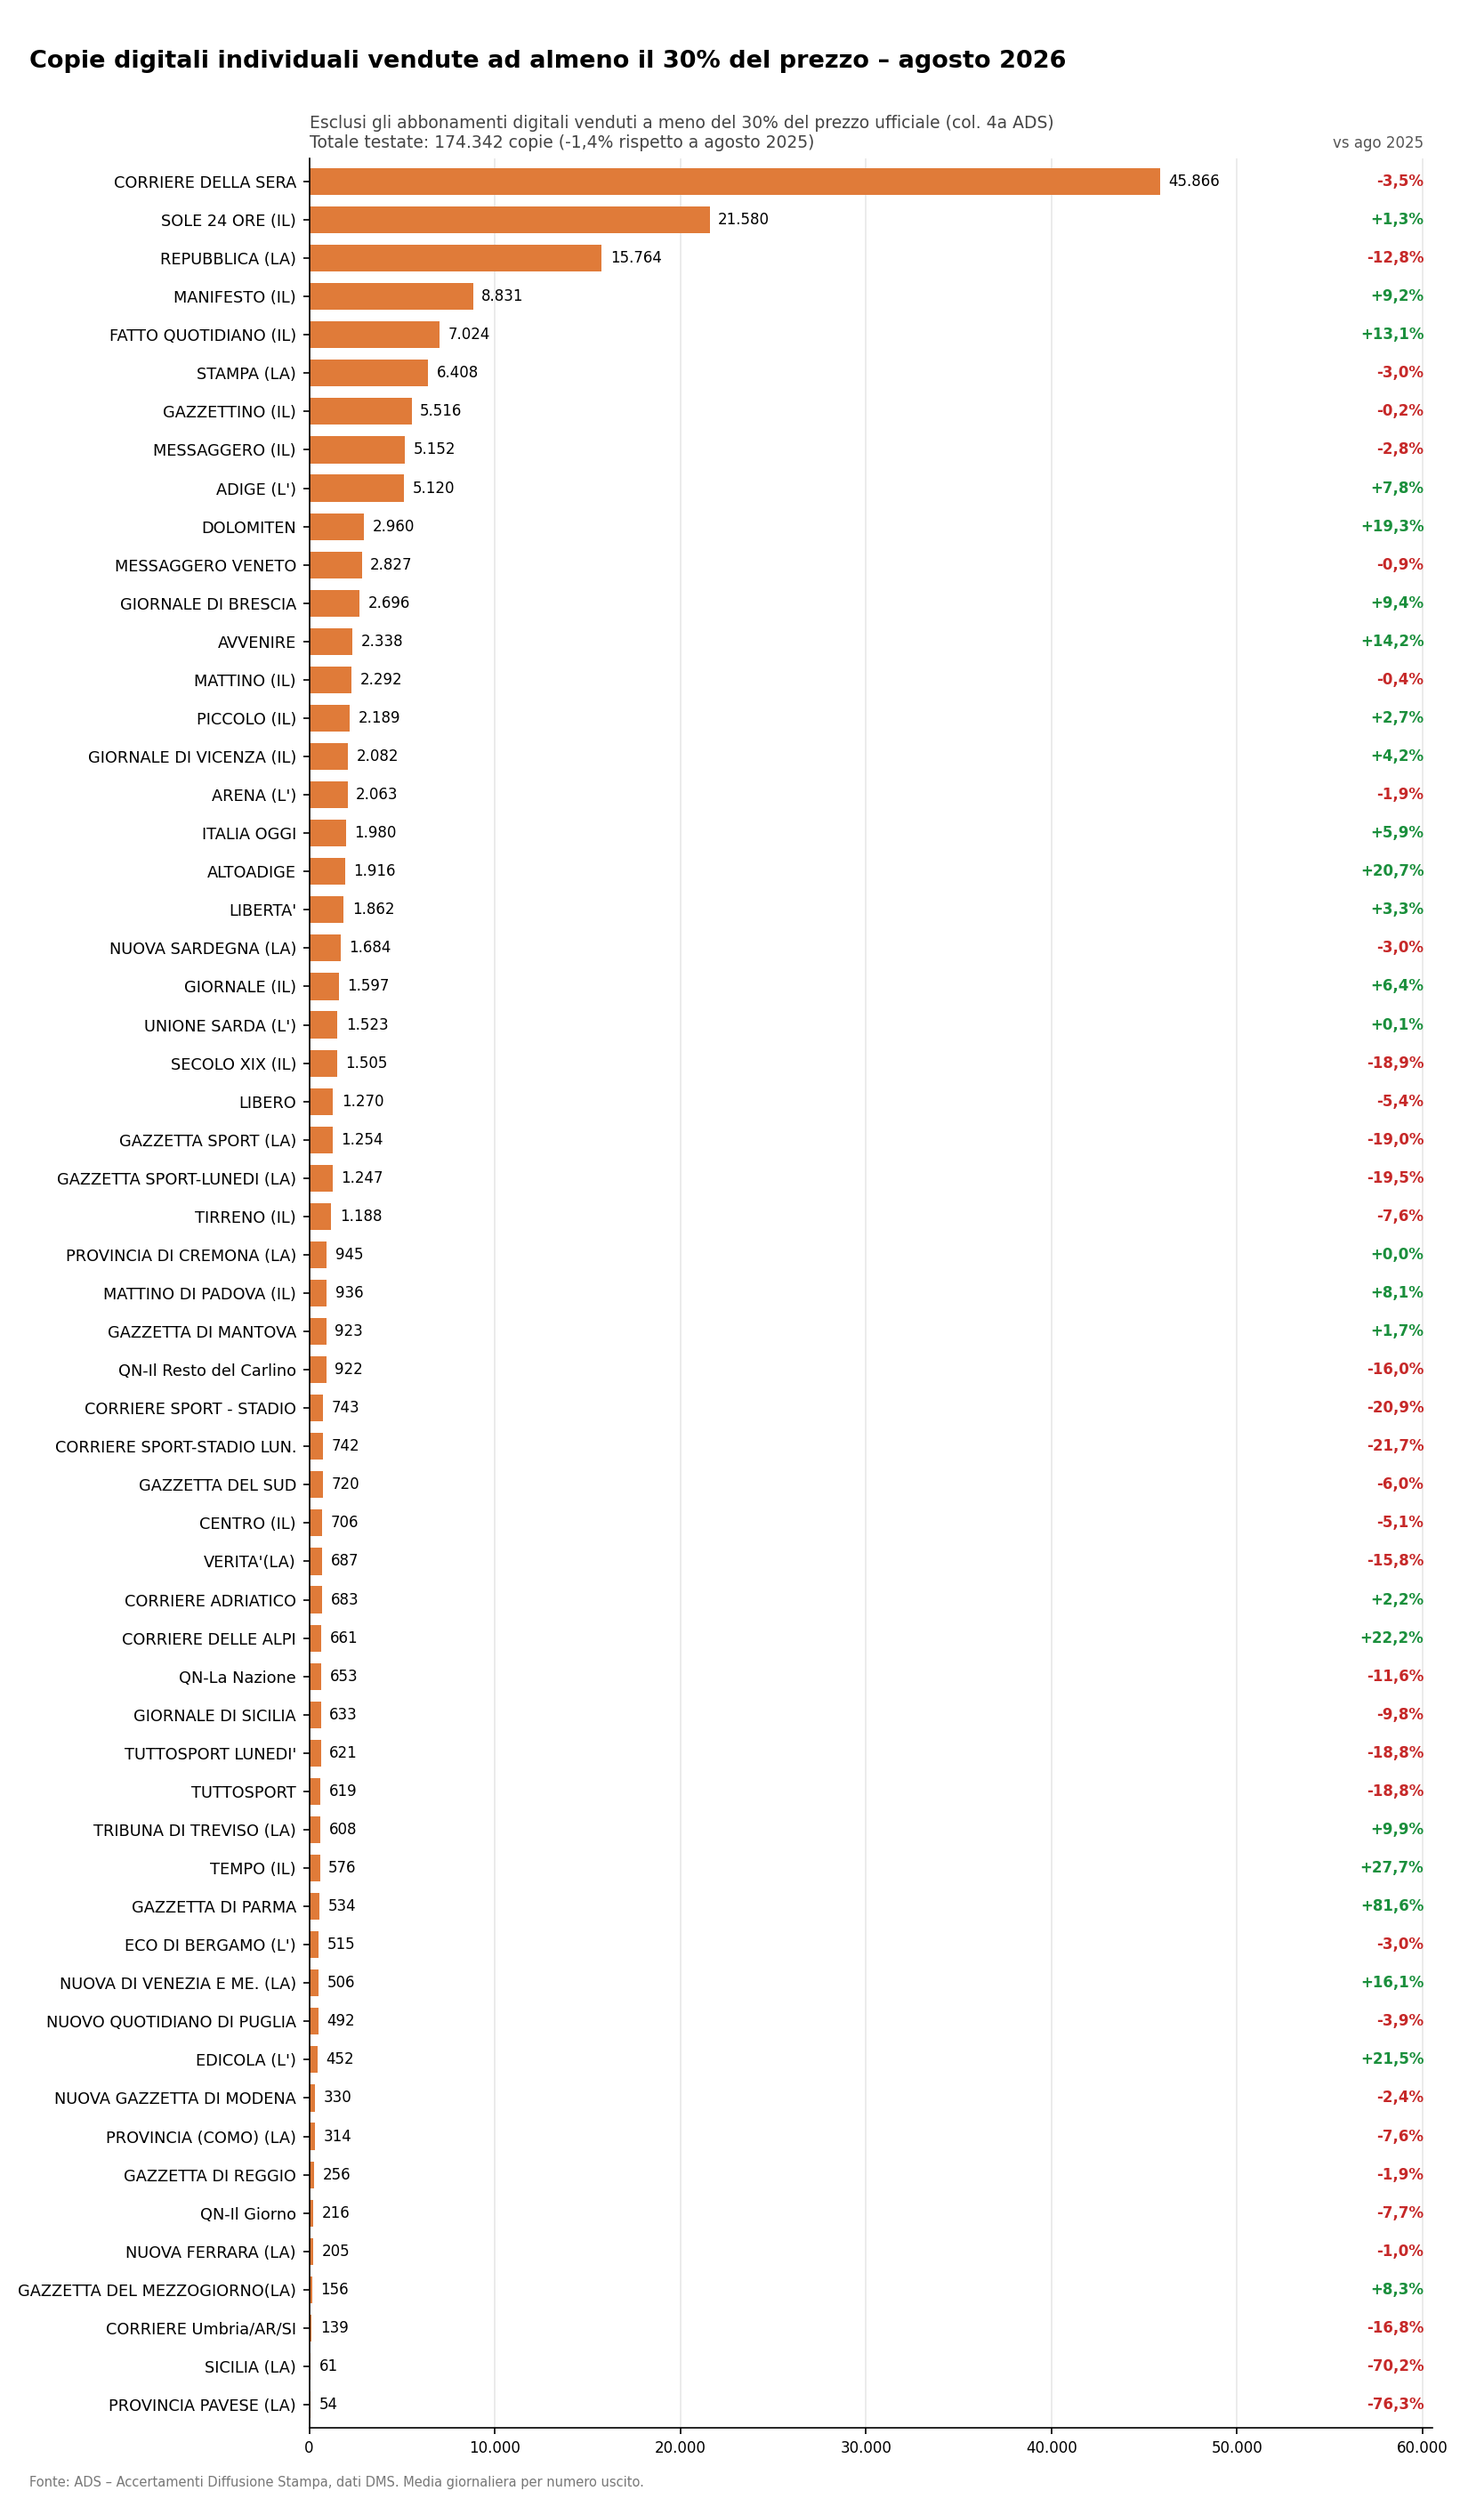
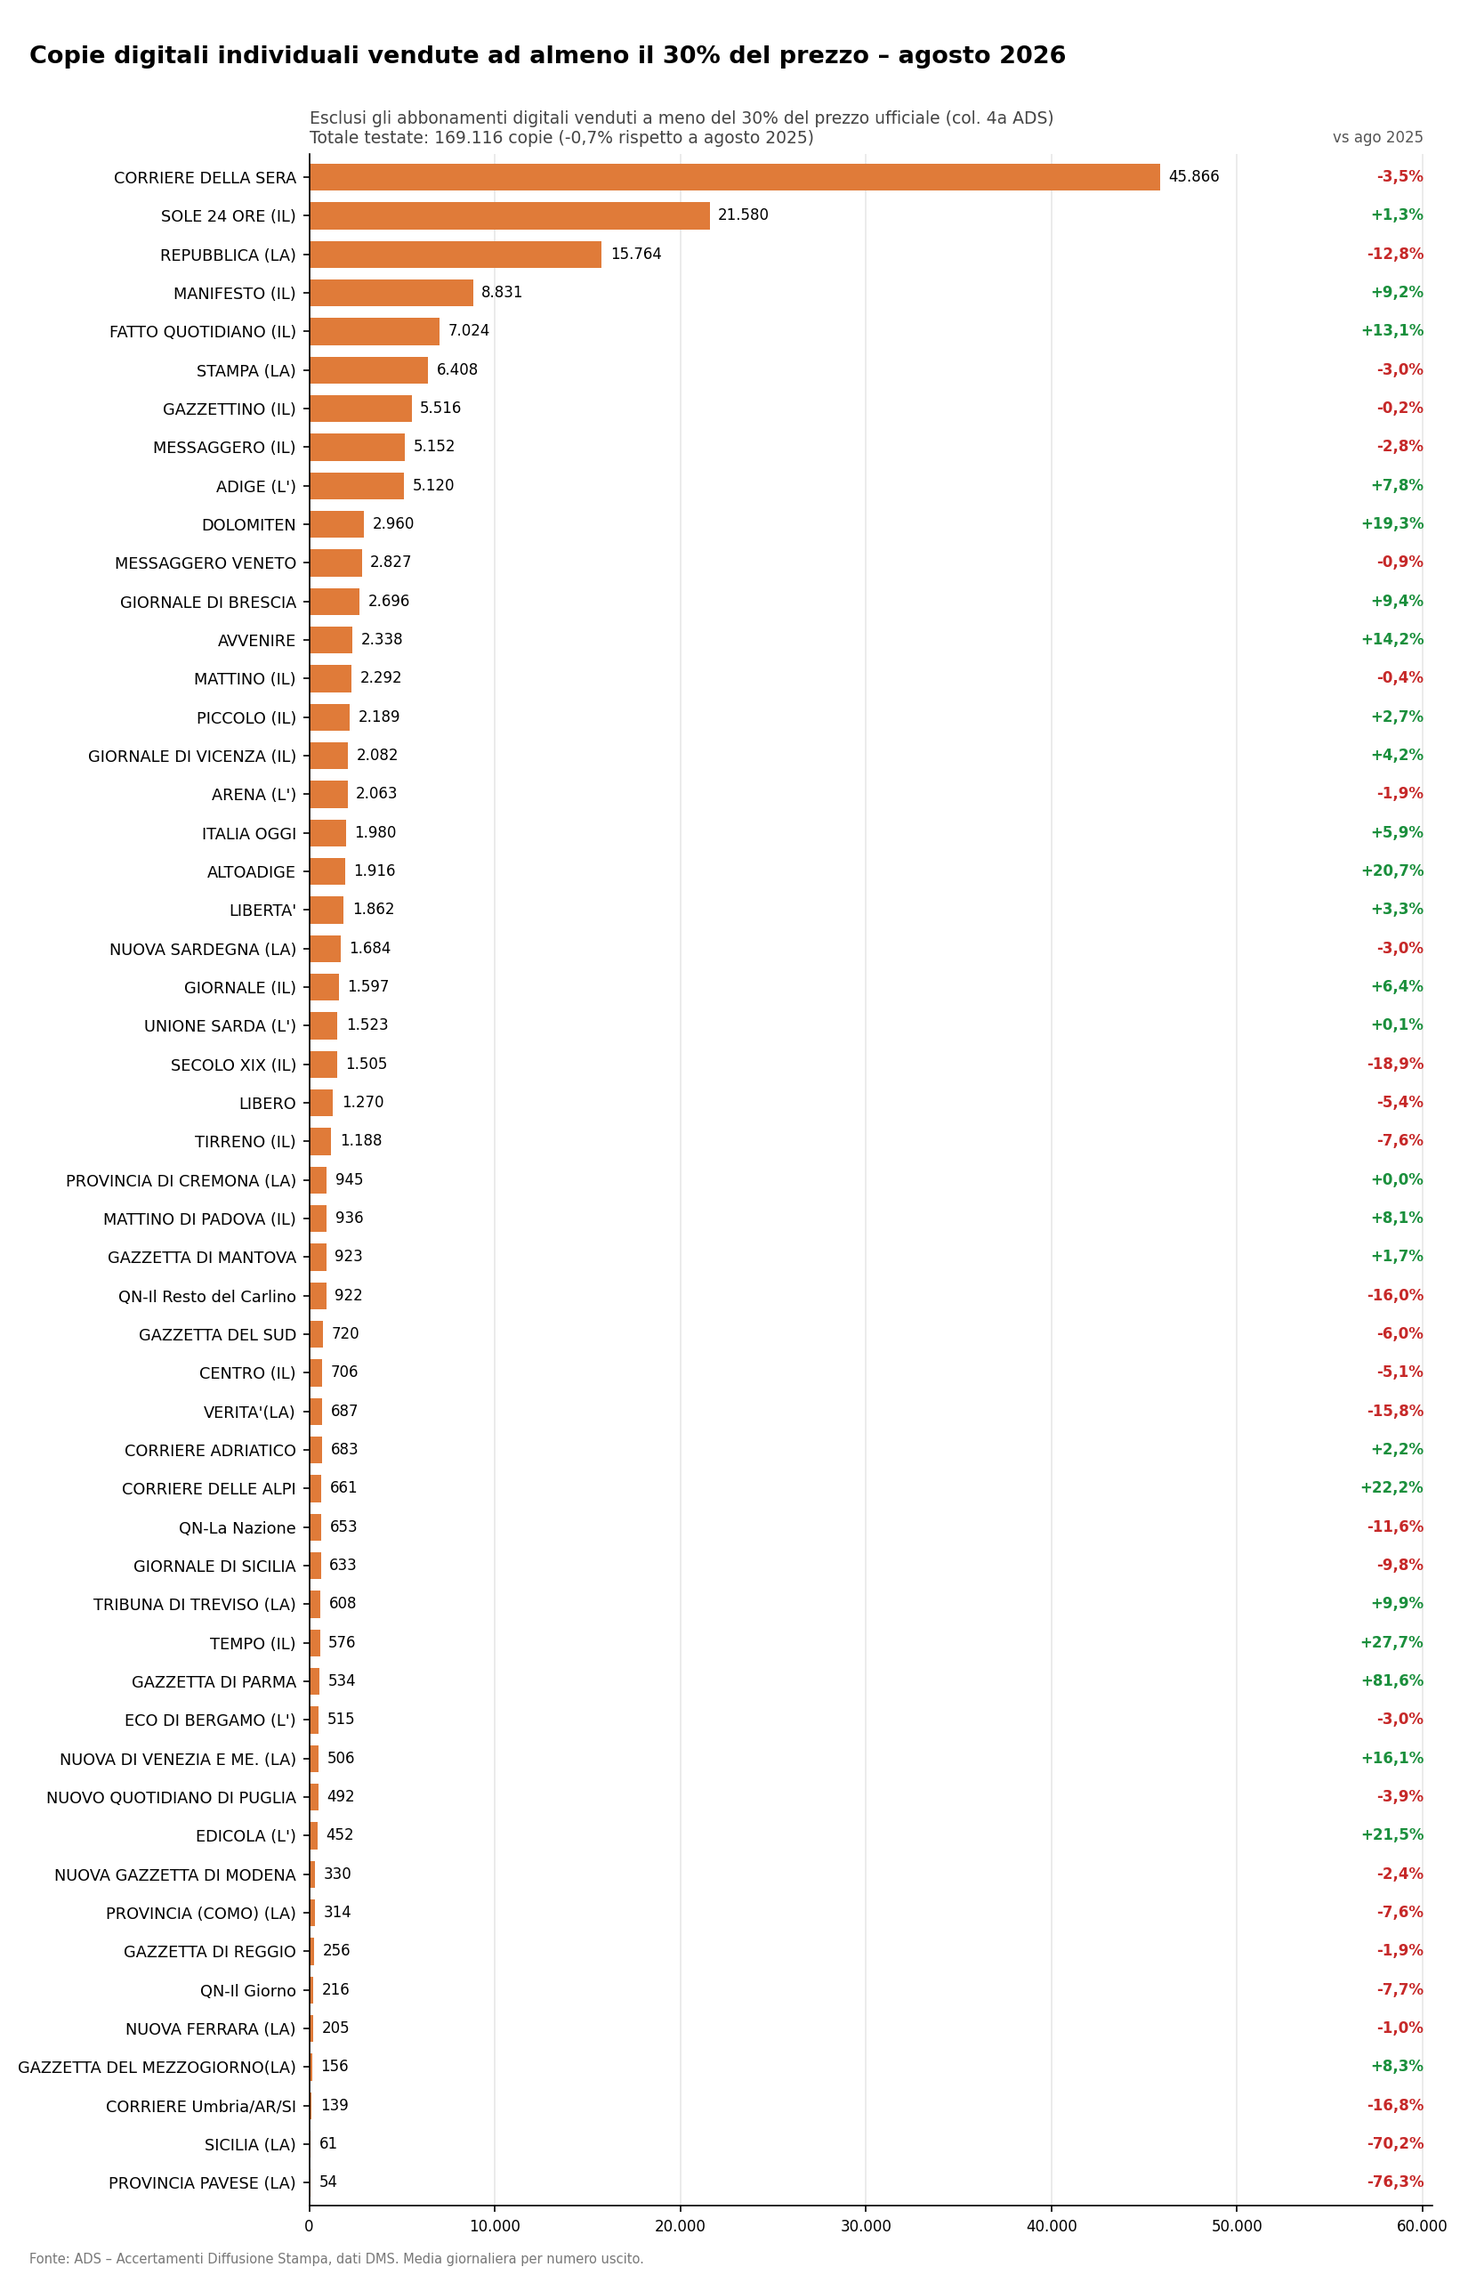
Individuale pagata = col. 2+3+4a, esclusi i quotidiani sportivi

diff --git a/ads_diffusione.py b/ads_diffusione.py
@@ -2,8 +2,11 @@
 """
 Scarica i dati mensili ADS (DMS) dei quotidiani da adsnotizie.it e produce due grafici:
 
-1. Diffusione media giornaliera "individuale pagata" (Totale vendite individuali, colonna 5 = 2+3+4)
+1. Diffusione media giornaliera "individuale pagata": cartacee + abbonamenti cartacei + copie digitali
+   vendute ad almeno il 30% del prezzo (colonne 2+3+4a; esclusa la 4b, digitali tra il 10 e il 30%)
 2. Sole copie digitali individuali vendute ad almeno il 30% del prezzo ufficiale (colonna 4a)
+
+Sono esclusi i quotidiani sportivi (Gazzetta dello Sport, Corriere dello Sport, Tuttosport).
 
 Per ogni testata mostra il dato del mese e la variazione % rispetto allo stesso mese dell'anno prima.
 
@@ -42,19 +45,25 @@ MESI = ["", "gennaio", "febbraio", "marzo", "aprile", "maggio", "giugno", "lugli
 COL_TESTATA = 0
 COL_ANNO = 5
 COL_MESE = 6
-COL_DIGITALI_30 = 12      # 4a – Vendite copie digitali individuali >= 30% del prezzo
-COL_TOT_INDIVIDUALI = 14  # 5  – Totale vendite individuali (2+3+4)
+COL_CARTACEE = 10        # 2  – Vendite individuali cartacee
+COL_ABB_CARTACEI = 11    # 3  – Abbonamenti individuali cartacei pagati
+COL_DIGITALI_30 = 12     # 4a – Vendite copie digitali individuali >= 30% del prezzo
 HEADER_ROWS = 4
+
+# Quotidiani sportivi (e loro edizioni del lunedì) esclusi dai grafici
+ESCLUDI = re.compile(r"GAZZETTA SPORT|CORRIERE SPORT|TUTTOSPORT", re.IGNORECASE)
 
 METRICHE = {
     "individuale_pagata": {
-        "col": COL_TOT_INDIVIDUALI,
+        # 2 + 3 + 4a: escluse le copie digitali vendute tra il 10% e il 30% del prezzo (4b)
+        "cols": [COL_CARTACEE, COL_ABB_CARTACEI, COL_DIGITALI_30],
         "titolo": "Diffusione media giornaliera individuale pagata",
-        "sottotitolo": "Cartacea + digitale, vendite individuali pagate dall'acquirente (col. 5 ADS)",
+        "sottotitolo": "Cartacee + abbonamenti cartacei + digitali vendute ad almeno il 30% del prezzo "
+                       "(col. 2+3+4a ADS)",
         "colore": "#1f6fb4",
     },
     "digitale_30": {
-        "col": COL_DIGITALI_30,
+        "cols": [COL_DIGITALI_30],
         "titolo": "Copie digitali individuali vendute ad almeno il 30% del prezzo",
         "sottotitolo": "Esclusi gli abbonamenti digitali venduti a meno del 30% del prezzo ufficiale (col. 4a ADS)",
         "colore": "#e07b39",
@@ -98,9 +107,11 @@ def leggi(path: Path, mese: int, anno: int) -> pd.DataFrame:
     df = df[df[COL_TESTATA].notna()]
     df = df[(pd.to_numeric(df[COL_ANNO], errors="coerce") == anno)
             & (pd.to_numeric(df[COL_MESE], errors="coerce") == mese)]
+    df = df[~df[COL_TESTATA].astype(str).str.contains(ESCLUDI)]
     out = pd.DataFrame({
         "testata": df[COL_TESTATA].astype(str).str.strip(),
-        **{k: pd.to_numeric(df[v["col"]], errors="coerce") for k, v in METRICHE.items()},
+        **{k: df[v["cols"]].apply(pd.to_numeric, errors="coerce").sum(axis=1, min_count=1)
+           for k, v in METRICHE.items()},
     })
     if out.empty:
         raise RuntimeError(f"Nessuna riga per {mese}/{anno} in {path.name}")

diff --git a/README.md b/README.md
@@ -2,11 +2,11 @@
 
 Ogni mese scarica da [ADS](https://www.adsnotizie.it/Dati/DMS_Page) i dati DMS dei quotidiani e genera due grafici in `grafici/`:
 
-- **`AAAA_MM_individuale_pagata.png`**: diffusione media giornaliera individuale pagata (col. 5 ADS) e variazione % sullo stesso mese dell'anno precedente
+- **`AAAA_MM_individuale_pagata.png`**: diffusione media giornaliera individuale pagata (cartacee + abbonamenti cartacei + digitali vendute ad almeno il 30% del prezzo, col. 2+3+4a ADS) e variazione % sullo stesso mese dell'anno precedente
 - **`AAAA_MM_digitale_30.png`**: sole copie digitali individuali vendute ad almeno il 30% del prezzo ufficiale (col. 4a ADS)
 - **`AAAA_MM_dati.csv`**: i numeri usati nei grafici
 
-Gli Excel originali vengono salvati in `dati/`.
+Sono esclusi i quotidiani sportivi. Gli Excel originali vengono salvati in `dati/`.
 
 ## Esecuzione automatica
 
